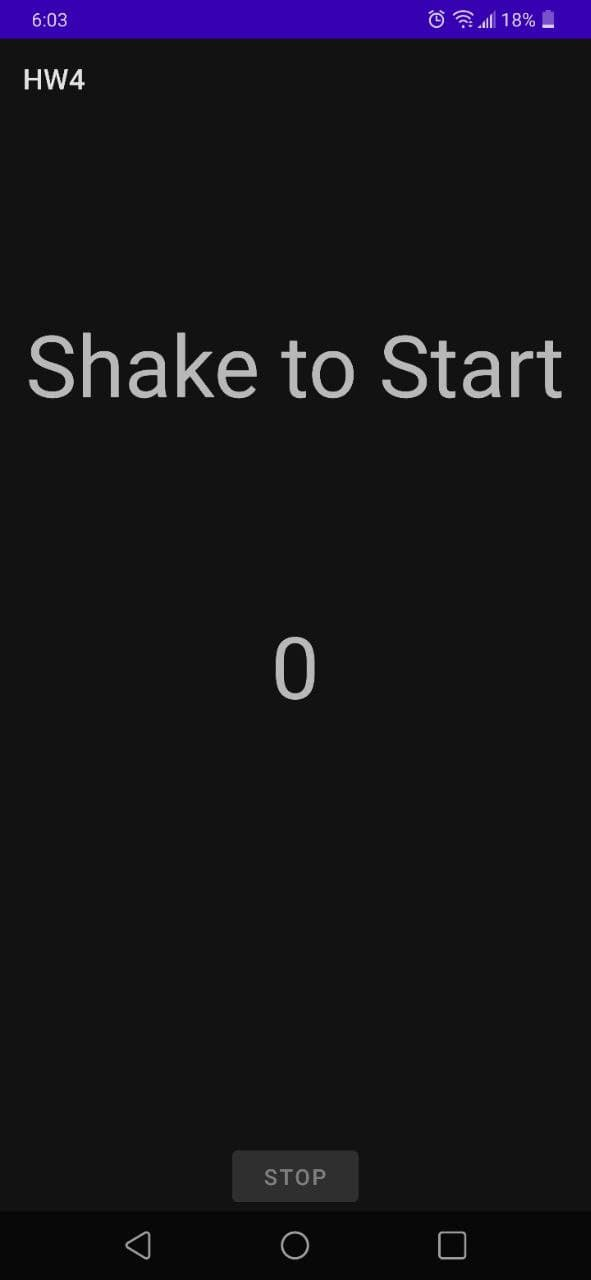
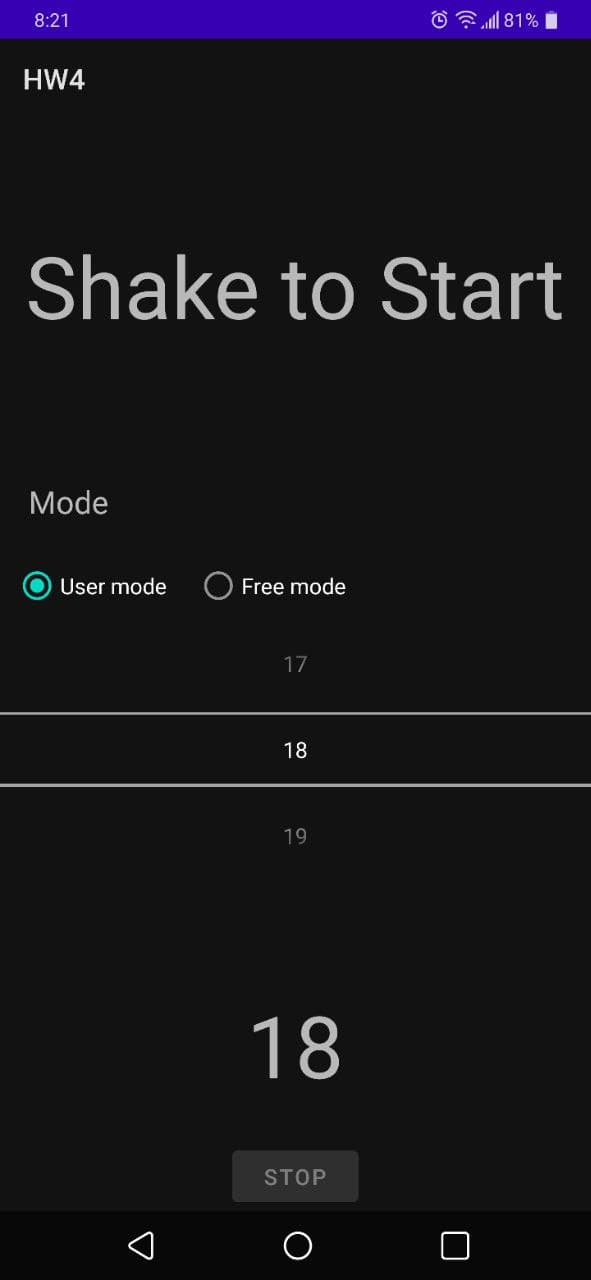
Adding free mode and user mode

diff --git a/HW4/app/src/main/java/edu/uw/hw4/MainActivity.kt b/HW4/app/src/main/java/edu/uw/hw4/MainActivity.kt
@@ -5,10 +5,11 @@ import android.hardware.Sensor
 import android.hardware.SensorEvent
 import android.hardware.SensorEventListener
 import android.hardware.SensorManager
+import android.media.AudioManager
+import android.media.ToneGenerator
 import androidx.appcompat.app.AppCompatActivity
 import android.os.Bundle
-import android.widget.Button
-import android.widget.TextView
+import android.widget.*
 import androidx.core.view.isVisible
 import kotlin.math.pow
 import kotlin.math.sqrt
@@ -23,8 +24,12 @@ class MainActivity : AppCompatActivity(), SensorEventListener {
     private var _counter: Int = 0
     private var _gravity = FloatArray(3) { 0.0F }
     private var _linearAcceleration = FloatArray(3) { 0.0F }
-    private lateinit var _btnSave: Button
+    private lateinit var _btnStop: Button
     private var _shakingHappend = false
+    private lateinit var _radioGroupMode: RadioGroup
+    private lateinit var _numberPickerMax: NumberPicker
+    private var _isUserMode = false
+    private var _nmax: Int = 1000
 
     override fun onCreate(savedInstanceState: Bundle?) {
 
@@ -32,21 +37,51 @@ class MainActivity : AppCompatActivity(), SensorEventListener {
         setContentView(R.layout.activity_main)
         _textViewCounter = findViewById(R.id.textview_counter)
         _textViewShake = findViewById(R.id.textview_shake)
-        _btnSave = findViewById(R.id.btn_save)
+        _btnStop = findViewById(R.id.btn_stop)
+        _radioGroupMode = findViewById(R.id.radiogroup_mode)
+        _numberPickerMax = findViewById(R.id.numberpicker_usermode)
+        _numberPickerMax.minValue = 0
+        _numberPickerMax.maxValue = 20000
+
+        //initially set to free mode
+        findViewById<RadioButton>(R.id.radiobutton_freemode).isChecked = true
+        _numberPickerMax.isEnabled= false
 
         _sensorManager = getSystemService(Context.SENSOR_SERVICE) as SensorManager
         _accelerometer = _sensorManager.getDefaultSensor(Sensor.TYPE_ACCELEROMETER)
         _sensorManager.registerListener(this, _accelerometer, SensorManager.SENSOR_DELAY_UI)
 
-        _btnSave.isEnabled = _shakingHappend
+        _btnStop.isEnabled = _shakingHappend
         _textViewShake.isVisible = !_shakingHappend
-        _btnSave.setOnClickListener()
+
+        _btnStop.setOnClickListener()
         {
-            _shakingHappend = false //stop counting
-            _counter = 0
-           _textViewShake.isVisible =!_shakingHappend
+            reset()
+        }
+
+        _radioGroupMode.setOnCheckedChangeListener { group, checkedId ->
+
+            var checkedId = group.checkedRadioButtonId
+
+            if (checkedId != -1) {
+                _numberPickerMax.isEnabled = checkedId == R.id.radiobutton_usermode
+                _isUserMode = checkedId == R.id.radiobutton_usermode
+                reset()
+            }
+        }
+        _numberPickerMax.setOnValueChangedListener { picker, oldVal, newVal ->
+            if (newVal >= 0) {
+                _nmax = newVal
+            }
         }
     }
+
+    fun reset() {
+        _shakingHappend = false //stop counting
+        _counter = 0
+        _textViewShake.isVisible = !_shakingHappend
+    }
+
 
     override fun onDestroy() {
         super.onDestroy()
@@ -81,8 +116,8 @@ class MainActivity : AppCompatActivity(), SensorEventListener {
                 } else {
                     _prevMagnitude = magnitude
                 }
-                _btnSave.isEnabled = _shakingHappend
-                _textViewShake.isVisible= !_shakingHappend
+                _btnStop.isEnabled = _shakingHappend
+                _textViewShake.isVisible = !_shakingHappend
 
             } else
 
@@ -103,15 +138,31 @@ class MainActivity : AppCompatActivity(), SensorEventListener {
                                 _linearAcceleration[1].toDouble().pow(2.0) +
                                 _linearAcceleration[2].toDouble().pow(2.0)
                     )
-                    if (_prevMagnitude < 1.0 && magnitude > 1.5) { //I did sampling to find these thresholds over historical data I collected
-                        _counter++
+
+                    if (_isUserMode) {
+                        if (_counter < _nmax) {
+                            countStep(magnitude)
+
+                        } else {
+                            var toneGenerator = ToneGenerator(AudioManager.STREAM_ALARM, 100)
+                            toneGenerator.startTone(ToneGenerator.TONE_CDMA_ALERT_CALL_GUARD, 100)
+                            _shakingHappend = false
+                        }
+                    } else {
+                        countStep(magnitude)
                     }
-                    _prevMagnitude = magnitude
-                    _textViewCounter.text = _counter.toString()
+
                 }
         }
     }
 
+    fun countStep(magnitude: Double) {
+        if (_prevMagnitude < 1.0 && magnitude > 1.5) { //I did sampling to find these thresholds over historical data I collected
+            _counter++
+        }
+        _prevMagnitude = magnitude
+        _textViewCounter.text = _counter.toString()
+    }
 
     override fun onAccuracyChanged(p0: Sensor?, p1: Int) {
 
